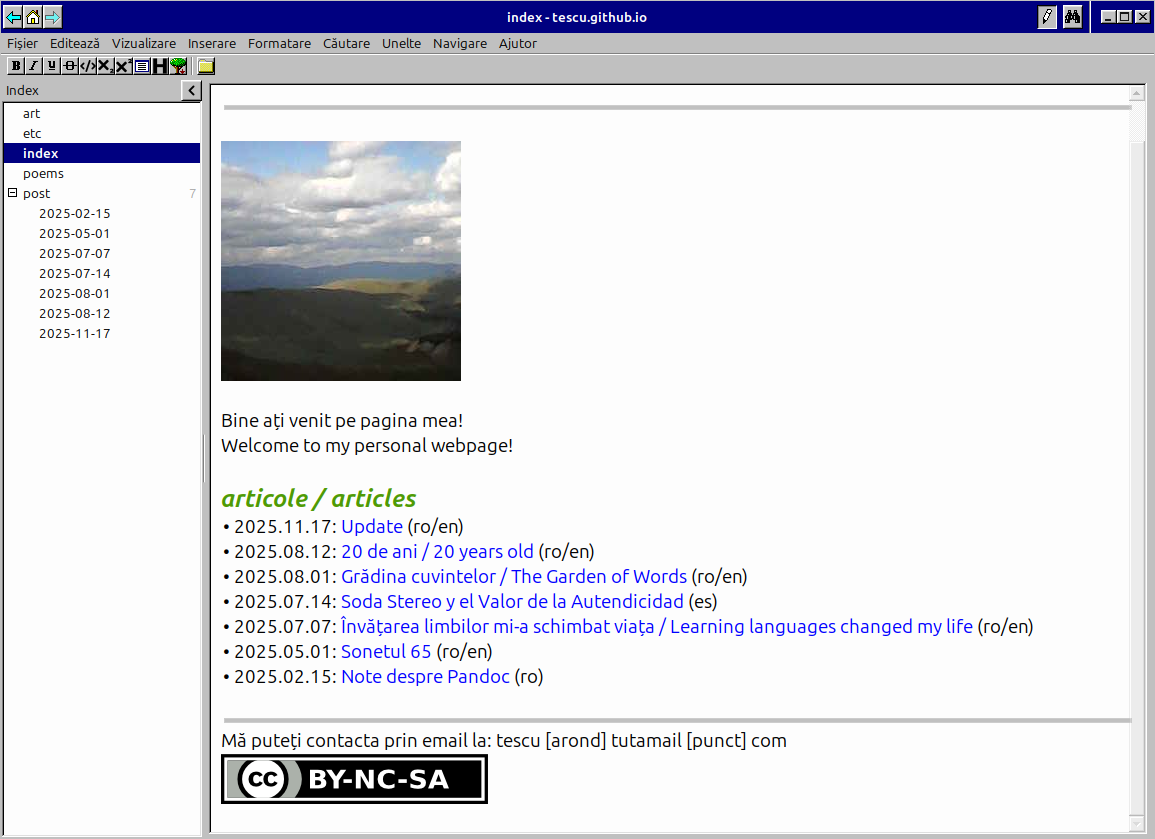
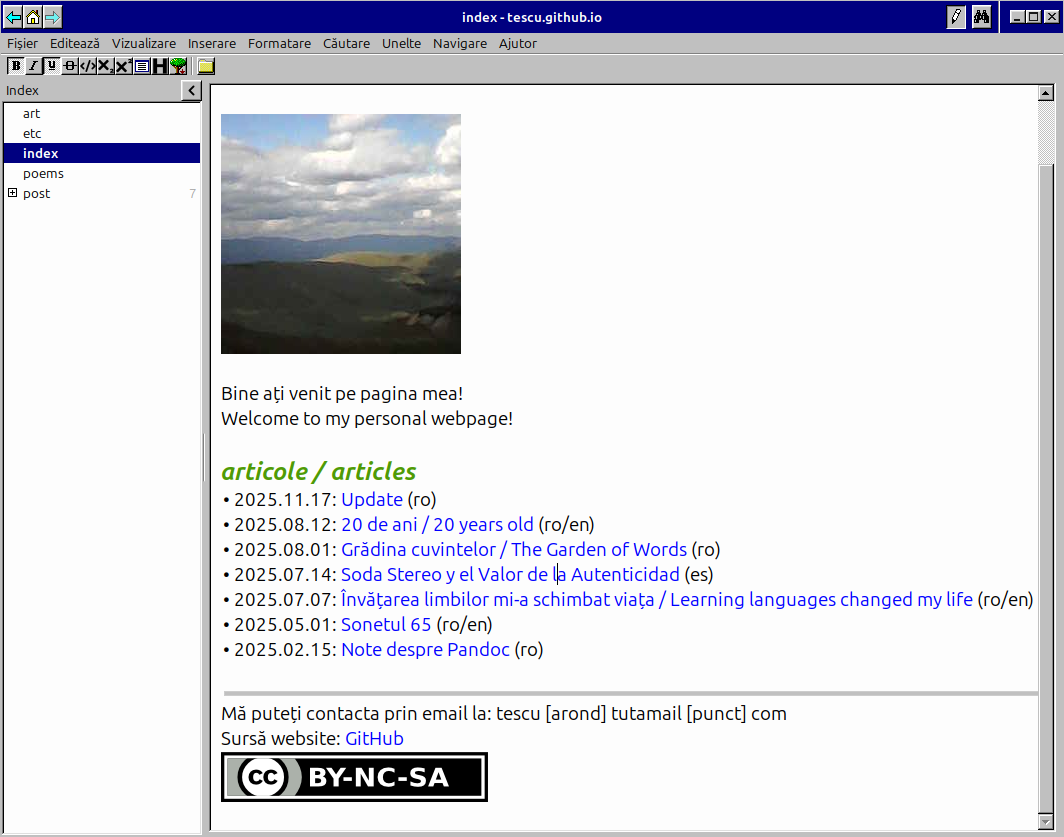
fix some typos

Changed region(s): [[0.0, 0.0, 1.0, 1.0], [0.8684, 0.0, 1.0, 0.0311]]

diff --git a/post/2025-08-12.html b/post/2025-08-12.html
@@ -189,14 +189,14 @@ Sunt recunoscător că am ales de la 17 ani să renunț la rețelele de socializ
 <p>
 <div style='padding-left: 30pt'>
 <i>Mai departe, fraţilor, câte sunt adevărate, câte sunt de cinste, câte sunt drepte, câte sunt curate, câte sunt vrednice de iubit, câte sunt cu nume bun, orice virtute şi orice laudă, la acestea să vă fie gândul. Cele ce aţi învăţat şi aţi primit şi aţi auzit şi aţi văzut la mine, acestea să le faceţi, şi Dumnezeul păcii va fi cu voi.</i><br>
-<b>Filipeni 4:8-9</b>
+<b><u>Filipeni 4:8-9</u></b>
 </div>
 </p>
 <br>
 <p>
 <div style='padding-left: 30pt'>
 <i>Cel ce iubeşte învăţătura iubeşte ştiinţa, iar cel ce urăşte certarea este nebun.</i><br>
-<b>Proverbe 12:1</b>
+<b><u>Proverbe 12:1</u></b>
 </div>
 </p>
 <br>
@@ -224,14 +224,14 @@ Finally, I do not regret ever chosing to study the Bible and the philosophy and 
 <p>
 <div style='padding-left: 30pt'>
 <i>Finally, brethren, whatsoever things are true, whatsoever things are honest, whatsoever things are just, whatsoever things are pure, whatsoever things are lovely, whatsoever things are of good report; if there be any virtue, and if there be any praise, think on these things. Those things, which ye have both learned, and received, and heard, and seen in me, do: and the God of peace shall be with you.</i><br>
-<b>Philippians 4:8-9</b>
+<b><u>Philippians 4:8-9</u></b>
 </div>
 </p>
 <br>
 <p>
 <div style='padding-left: 30pt'>
 <i>Whoso loveth instruction loveth knowledge: but he that hateth reproof is brutish.</i><br>
-<b>Proverbs 12:1 – KJV</b>
+<b><u>Proverbs 12:1 – KJV</u></b>
 </div>
 </p>
 

diff --git a/index.html b/index.html
@@ -170,7 +170,7 @@ Welcome to my personal webpage!
 <li>2025.11.17: <a href="./post/2025-11-17.html" title="Update" class="page">Update</a> (ro)</li>
 <li>2025.08.12: <a href="./post/2025-08-12.html" title="20 de ani / 20 years old" class="page">20 de ani / 20 years old</a> (ro/en)</li>
 <li>2025.08.01: <a href="./post/2025-08-01.html" title="Grădina cuvintelor / The Garden of Words" class="page">Grădina cuvintelor / The Garden of Words</a> (ro)</li>
-<li>2025.07.14: <a href="./post/2025-07-14.html" title="Soda Stereo y el Valor de la Autendicidad" class="page">Soda Stereo y el Valor de la Autendicidad</a> (es)</li>
+<li>2025.07.14: <a href="./post/2025-07-14.html" title="Soda Stereo y el Valor de la Autenticidad" class="page">Soda Stereo y el Valor de la Autenticidad</a> (es)</li>
 <li>2025.07.07: <a href="./post/2025-07-07.html" title="Învățarea limbilor mi-a schimbat viața / Learning languages changed my life" class="page">Învățarea limbilor mi-a schimbat viața / Learning languages changed my life</a> (ro/en)</li>
 <li>2025.05.01: <a href="./post/2025-05-01.html" title="Sonetul 65" class="page">Sonetul 65</a> (ro/en)</li>
 <li>2025.02.15: <a href="./post/2025-02-15.html" title="Note despre Pandoc" class="page">Note despre Pandoc</a> (ro)</li>

diff --git a/etc.html b/etc.html
@@ -434,22 +434,18 @@ O listă non-exaustivă...
 <ul>
 <li>Anime realizat de unul dintre ilustratorii mei preferați. Poveste foarte filosofică care preia unele idei sau motive creștine.</li>
 </ul></li>
-<li><b>The House of Small Cubes</b> (2008), Kunio Katô</li>
-</ul>
-<p>
-  Pur și simplu o animație sublimă.
-</p>
+<li><b>The House of Small Cubes</b> (2008), Kunio Katô
 <ul>
+<li>Pur și simplu o animație sublimă.</li>
+</ul></li>
 <li><b>Josee, the Tiger and the Fish</b> (2020), Kotaru Tamura + Sayaka Kuwamura
 <ul>
 <li>După romanul omonim scris de Seiko Tanabe. Poveste emoționantă și captivantă.</li>
 </ul></li>
-<li><b>Interstella 5555</b> (2003), Daft Punk + Leiji Matsumoto</li>
-</ul>
-<p>
-  Daft Punk + anime = awesome? 
-</p>
+<li><b>Interstella 5555</b> (2003), Daft Punk + Leiji Matsumoto
 <ul>
+<li>Daft Punk + anime = awesome? </li>
+</ul></li>
 <li><b>Samurai Champloo</b> (2004), studio Manglobe
 <ul>
 <li>Coloana sonoră realizată de compozitorul meu preferat, Nujabes.</li>

diff --git a/post/2025-07-14.html b/post/2025-07-14.html
@@ -4,7 +4,7 @@
 	<meta http-equiv="Content-Type" content="text/html; charset=UTF-8">
 	<meta http-equiv="X-UA-Compatible" content="IE=edge,chrome=1">
 
-	<title>Soda Stereo y el Valor de la Autendicidad</title>
+	<title>Soda Stereo y el Valor de la Autenticidad</title>
 	<meta name="generator" content="Zim 0.75.2">
 	<meta name="viewport" content="width=device-width">
 	<!-- <link href='http://fonts.googleapis.com/css?family=Open+Sans:300&subset=latin,greek,latin-ext' rel='stylesheet' type='text/css'> -->
@@ -160,7 +160,7 @@
 </ul>
  </div>
 		<div id="content">
-			<h1>Soda Stereo y el Valor de la Autendicidad <a name='post:2025-07-14'></a></h1>
+			<h1>Soda Stereo y el Valor de la Autenticidad <a name='post:2025-07-14'></a></h1>
 
 			<p>
 <div style='padding-left: 30pt'>

diff --git a/poems.html b/poems.html
@@ -278,7 +278,7 @@ da
 <h3>english<a id="english" class="h_anchor"></a></h3>
 <p>
 <u>7 jun. 2025</u><br>
-Philosophy in a Haiku leaf<br>
+<i>Philosophy in a Haiku leaf</i><br>
 I am not special<br>
 Living day to day again<br>
 Just as you do too.<br>
